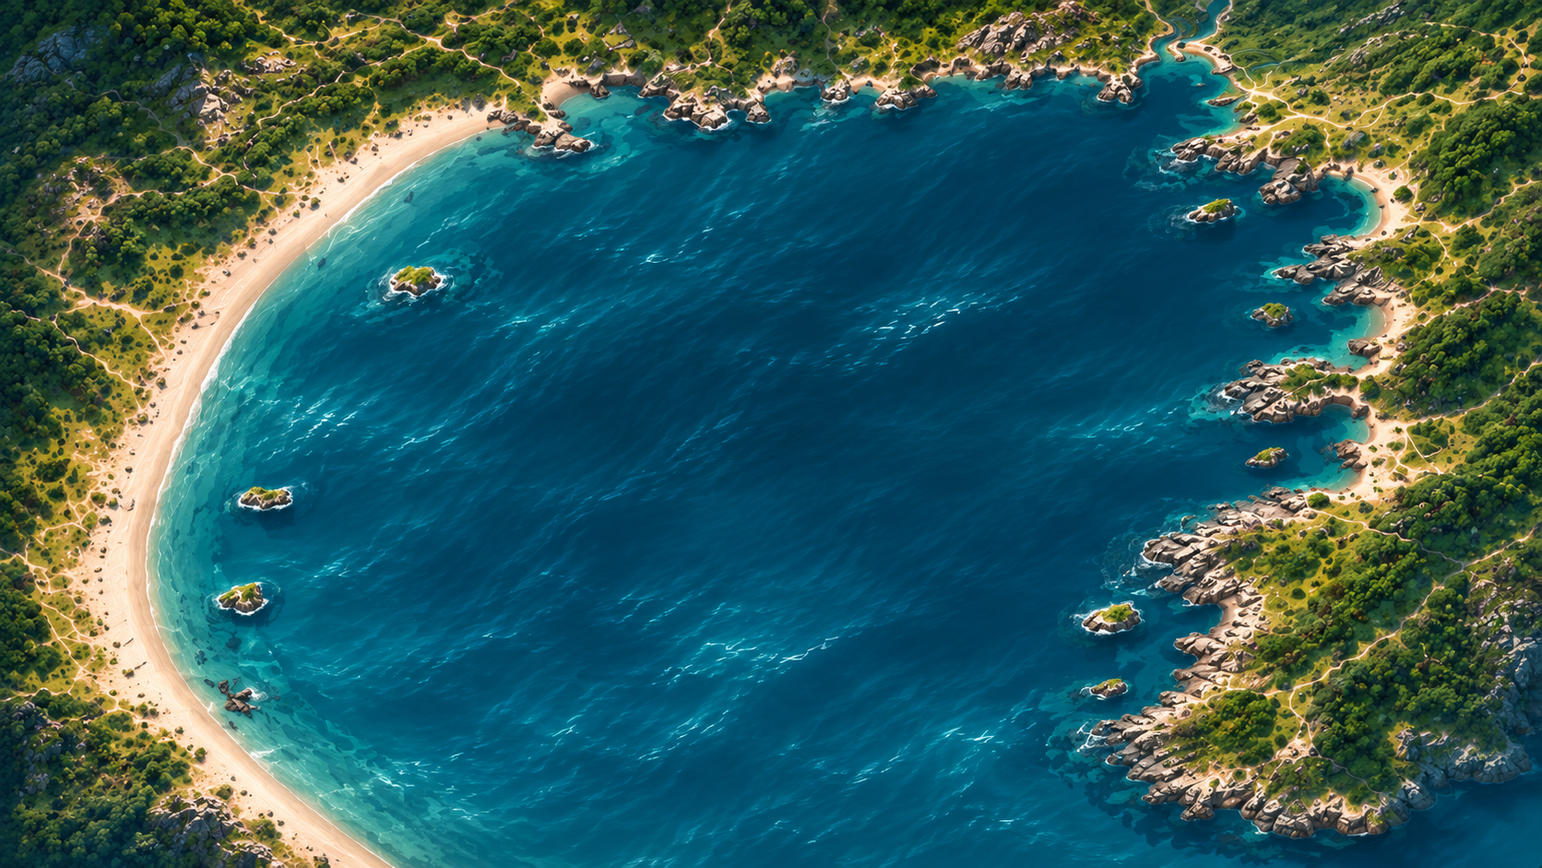
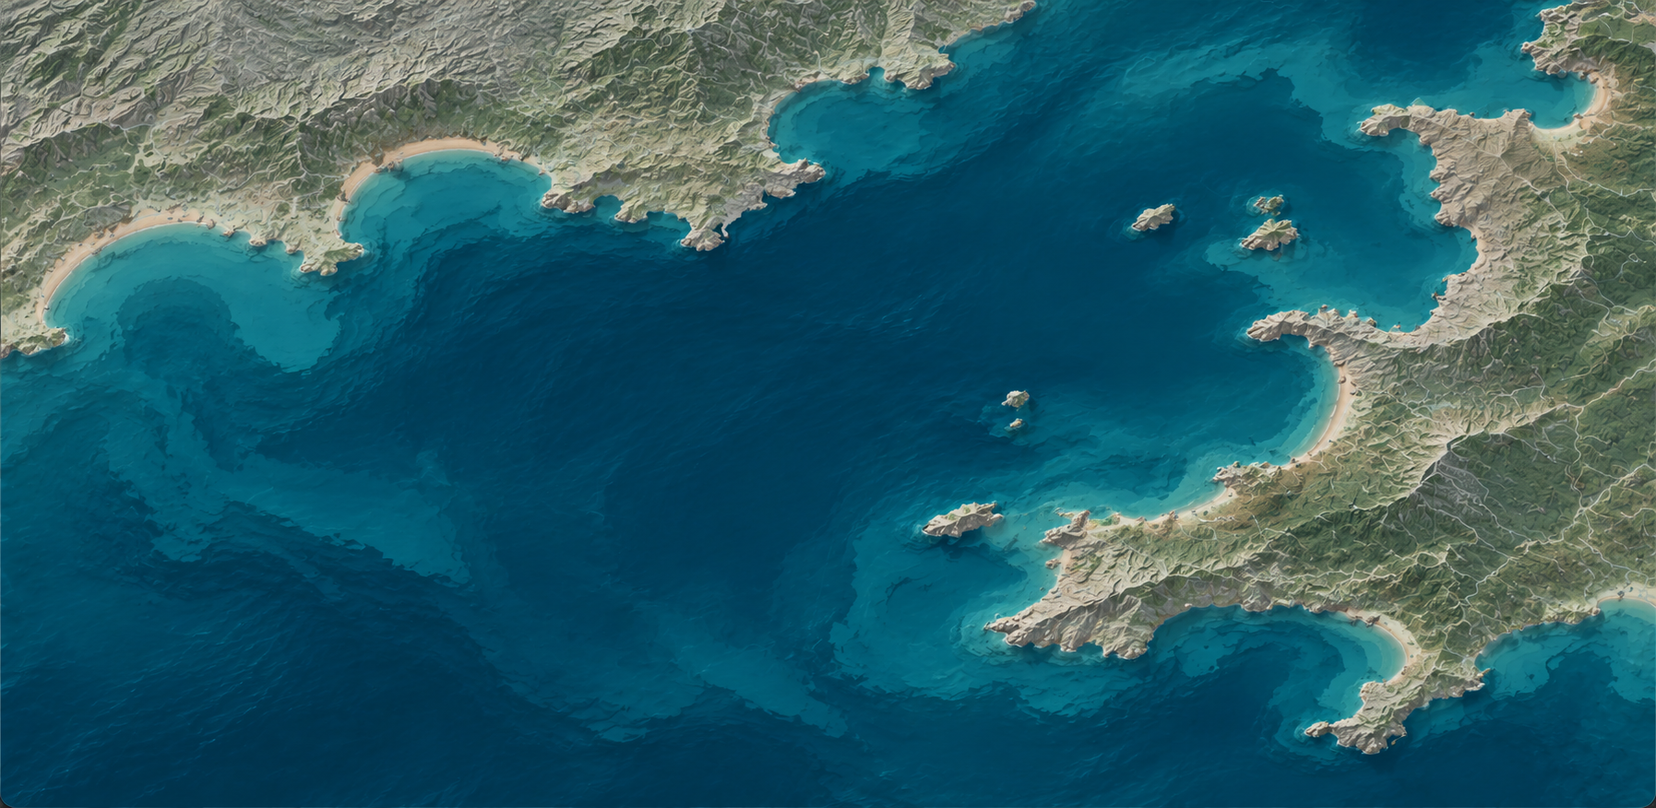
feat: refine simulation setup review and Anchovy Bay background
- Improve typography in duration, climate and review steps
- Preserve the existing button font sizes
- Keep the review centered and show simulation start and end dates
- Show modified species’ biomass limits, biomass bases and fishing
  mortality alongside their defaults, highlighting changed values
- Display saved configuration rules and summarize unchanged defaults
- Move the name character count beside its label and remove queue text
- Stack species names above their codes and life stages in the HCR header
- Left-align initial biomass and initial fishing mortality values
- Combine Modified and reset into a transparent rose-outlined component
- Replace the Anchovy Bay background and remove the unused alternative

diff --git a/apps/frontend/src/features/CreateSimulationModal/flows/northwestern/NorthwesternSimulationFlow.module.css b/apps/frontend/src/features/CreateSimulationModal/flows/northwestern/NorthwesternSimulationFlow.module.css
@@ -3,7 +3,7 @@
   .fields { display: grid; gap: var(--spacing-lg); padding-block: var(--spacing-md); }
   .runSettings { display: grid; gap: var(--spacing-lg); padding-block: var(--spacing-sm); }
   .durationGroup { gap: var(--spacing-md); }
-  .durationGroup > label { font-size: var(--font-size-xl); font-weight: var(--font-weight-semibold); line-height: var(--line-height-tight); }
+  .durationGroup > label { font-size: var(--font-size-lg); font-weight: var(--font-weight-semibold); line-height: var(--line-height-tight); }
   .durationGroup > p { font-size: var(--font-size-lg); }
   .settingsQuestion { margin: 0; color: var(--color-text); font-size: var(--font-size-xl); font-weight: var(--font-weight-bold); line-height: var(--line-height-tight); }
   .climateGroup { gap: 0; }
@@ -55,36 +55,46 @@
   .tacFormula { display: flex; flex-direction: column; justify-content: center; padding: var(--spacing-sm) var(--spacing-md); border: var(--border-width) solid var(--color-hcr-border); border-radius: var(--radius-md); background: var(--color-glass-surface); color: var(--color-text); }
   .tacFormula strong { color: var(--color-primary-ink); font-size: var(--font-size-md); line-height: var(--line-height-body); font-weight: var(--font-weight-semibold); }
   .workspace { flex: 1; display: flex; flex-direction: column; gap: var(--spacing-sm); min-width: 0; min-height: 0; padding: var(--spacing-md); overflow: hidden; border: var(--border-default); border-radius: var(--radius-lg); background: var(--color-hcr-editor); }
-  .editorHeading { display: flex; align-items: center; gap: var(--spacing-md); flex-shrink: 0; min-height: var(--control-height-sm); overflow-x: auto; scrollbar-width: thin; white-space: nowrap; }
-  .editorIdentity { display: flex; align-items: center; gap: var(--spacing-sm); min-width: 0; flex-shrink: 0; }
-  .editorHeading h3 { margin: 0; max-width: 19ch; overflow: hidden; text-overflow: ellipsis; white-space: nowrap; color: var(--color-text); font-size: var(--font-size-sm); line-height: var(--line-height-body); font-weight: var(--font-weight-semibold); outline: none; }
+  .editorHeading { display: grid; grid-template-columns: minmax(0, 1fr) minmax(0, 1.4fr) auto; align-items: center; gap: var(--spacing-md); flex-shrink: 0; min-width: 0; min-height: var(--control-height-sm); }
+  .editorIdentity { display: flex; align-items: center; gap: var(--spacing-sm); min-width: 0; }
+  .editorSpecies { display: grid; gap: var(--spacing-xs); min-width: 0; }
+  .editorHeading h3 { margin: 0; overflow-wrap: anywhere; color: var(--color-text); font-size: var(--font-size-sm); line-height: var(--line-height-body); font-weight: var(--font-weight-semibold); outline: none; }
   .editorActions { display: flex; height: var(--control-height-sm); align-items: stretch; gap: var(--spacing-xs); flex-shrink: 0; margin-inline-start: auto; }
-  .editorActions button { inline-size: var(--control-height-sm); block-size: var(--control-height-sm); min-height: 0; padding: 0; font-size: var(--font-size-xs); }
-  .editorActions .statusTag { display: inline-flex; align-items: center; height: 100%; padding-block: 0; }
-  .referenceValues { display: flex; align-items: center; gap: var(--spacing-md); margin: 0; flex-shrink: 0; white-space: nowrap; }
-  .referenceValues > div { display: flex; align-items: baseline; gap: var(--spacing-sm); }
+  .referenceValues { display: grid; grid-template-columns: max-content minmax(0, max-content); justify-content: start; gap: var(--spacing-xs) var(--spacing-smd); margin: 0; min-width: 0; text-align: start; }
+  .referenceValues > div { display: grid; grid-column: 1 / -1; grid-template-columns: subgrid; align-items: baseline; }
   .referenceValues dt { color: var(--color-text-muted); font-size: var(--font-size-xs); }
-  .referenceValues dd { margin: 0; color: var(--color-text); font-size: var(--font-size-sm); font-variant-numeric: tabular-nums; }
+  .referenceValues dd { white-space: nowrap; margin: 0; color: var(--color-text); font-size: var(--font-size-sm); font-variant-numeric: tabular-nums; }
   .graphPanel { display: flex; flex-direction: column; gap: var(--spacing-sm); position: relative; flex: 1 1 0; min-width: 0; min-height: 0; padding: var(--spacing-xs); border-radius: var(--radius-md); background: var(--color-hcr-plot); }
   .graphPanel > div { height: auto; min-height: 0; flex: 1; }
   .ruleInputs { display: grid; grid-template-columns: repeat(3, minmax(0, 1fr)); gap: var(--spacing-sm); min-width: 0; max-height: 9rem; overflow: auto; padding-top: var(--spacing-sm); border-top: var(--border-default); flex-shrink: 0; scrollbar-width: thin; }
   .statePanel { display: flex; flex: 1; min-height: 0; flex-direction: column; align-items: center; justify-content: center; gap: var(--spacing-md); padding: var(--spacing-lg); border: var(--border-default); border-radius: var(--radius-md); color: var(--color-text-muted); text-align: center; }
-  .finalStep { width: 100%; max-width: 44rem; margin-inline: auto; padding-block: var(--spacing-md); }
+  .finalStep { width: 100%; max-width: 56rem; margin-inline: auto; padding-block: var(--spacing-md); }
   .reviewPanel { overflow: hidden; border: var(--border-default); border-radius: var(--radius-lg); background: var(--color-surface-muted); }
-  .reviewSummary { padding: var(--spacing-lg); }
+  .reviewSummary { padding: var(--spacing-mdl); }
   .reviewCase { display: grid; gap: var(--spacing-xs); padding-bottom: var(--spacing-lg); margin-bottom: var(--spacing-lg); border-bottom: var(--border-default); text-align: center; }
   .reviewCase > span { color: var(--color-text-muted); font-size: var(--font-size-xs); }
-  .reviewCase h3 { margin: 0; color: var(--color-text); font-size: var(--font-size-lg); font-weight: var(--font-weight-medium); line-height: var(--line-height-body); }
+  .reviewCase h3 { margin: 0; color: var(--color-text); font-size: var(--font-size-xl); font-weight: var(--font-weight-semibold); line-height: var(--line-height-body); }
   .review { display: grid; grid-template-columns: repeat(3, minmax(0, 1fr)); gap: var(--spacing-lg); margin: 0; }
   .review > div { display: grid; align-content: start; gap: var(--spacing-sm); min-width: 0; }
   .review dt { color: var(--color-text-muted); font-size: var(--font-size-xs); line-height: var(--line-height-body); }
   .review dd { margin: 0; overflow-wrap: anywhere; font-size: var(--font-size-md); font-weight: var(--font-weight-semibold); line-height: var(--line-height-body); }
   .review dd small { display: block; margin-top: var(--spacing-xs); color: var(--color-text-muted); font-size: var(--font-size-xs); font-weight: var(--font-weight-regular); line-height: var(--line-height-body); }
+  .reviewRules { padding: var(--spacing-md) var(--spacing-mdl); border-top: var(--border-default); }
+  .reviewRules h3 { margin: 0; font-size: var(--font-size-lg); font-weight: var(--font-weight-semibold); }
+  .reviewRuleList { max-height: 15rem; overflow-y: auto; overscroll-behavior: contain; scrollbar-width: thin; margin-top: var(--spacing-md); border: var(--border-default); border-radius: var(--radius-md); }
+  .reviewRule { padding: var(--spacing-md); background: var(--color-surface); }
+  .reviewRule + .reviewRule { border-top: var(--border-default); }
+  .reviewRule header { display: flex; flex-wrap: wrap; align-items: baseline; gap: var(--spacing-sm); margin-bottom: var(--spacing-sm); }
+  .reviewRule h4 { margin: 0; font-size: var(--font-size-lg); font-weight: var(--font-weight-semibold); }
+  .reviewRule header span { color: var(--color-text-muted); }
+  .reviewRule .review { gap: var(--spacing-md); }
+  .reviewRule dd[data-modified] { color: var(--color-primary-ink); }
   .nameSection { display: grid; justify-items: center; gap: var(--spacing-sm); padding: var(--spacing-lg); border-top: var(--border-default); background: var(--color-surface); }
-  .nameSection > p { text-align: center; }
-  .nameField { width: 100%; max-width: 28rem; }
-  .nameField input { font-size: var(--font-size-md); }
-  .nameField [slot="description"] { text-align: right; font-variant-numeric: tabular-nums; }
+  .nameField { display: grid; grid-template-columns: minmax(0, 1fr) auto; align-items: baseline; width: 100%; max-width: 28rem; }
+  .nameField > label { grid-column: 1; grid-row: 1; }
+  .nameField input { grid-column: 1 / -1; grid-row: 2; font-size: var(--font-size-md); }
+  .nameField > :last-child:not(input):not([slot="description"]) { grid-column: 1 / -1; }
+  .nameField [slot="description"] { grid-column: 2; grid-row: 1; text-align: right; font-variant-numeric: tabular-nums; }
   .error { margin: 0; color: var(--color-danger); font-size: var(--font-size-sm); line-height: var(--line-height-body); }
   .fieldset[data-screen="hcr"] { display: flex; flex-direction: column; flex: 1; min-height: 0; }
   .hcrStep:not([hidden]) { display: flex; flex: 1; min-height: 0; }
@@ -101,6 +111,9 @@
   .speciesOption { display: flex; align-items: center; height: 2.75rem; min-width: 0; }
   .ruleStatus { display: grid; place-items: center; flex-shrink: 0; width: var(--icon-size-sm); height: var(--icon-size-sm); border-radius: var(--radius-pill); color: var(--color-danger); font-size: var(--font-size-xs); }
   @media (max-width: 64rem) {
+    .editorHeading { grid-template-columns: minmax(0, 1fr) auto; }
+    .editorActions { grid-column: 2; grid-row: 1; }
+    .referenceValues { grid-column: 1 / -1; }
     .hcrContent { --hcr-sidebar-width: 18rem; }
     .hcrOverview { grid-template-columns: minmax(0, 1fr); gap: var(--spacing-sm); }
     .tacAside { border-inline-start: 0; padding-inline-start: 0; }

diff --git a/apps/frontend/src/features/CreateSimulationModal/flows/northwestern/ReviewStep.tsx b/apps/frontend/src/features/CreateSimulationModal/flows/northwestern/ReviewStep.tsx
@@ -2,23 +2,52 @@ import { getClimateScenarioContent } from "../../../../../mock-data/content/clim
 import Input from "../../../../components/ui/Input/Input";
 import { Controller, useFormContext, useWatch } from "react-hook-form";
 import type { ExperimentOptions } from "../../../../network/services/scenarios/scenarioSchemas";
-import type { HcrConfiguration } from "../../../../network/services/hcrConfigurations/hcrConfigurationSchemas";
+import type { HcrConfiguration, HcrRulePayload } from "../../../../network/services/hcrConfigurations/hcrConfigurationSchemas";
 import { getRunDurations, type SimulationFormValues, type HcrMode } from "./form";
 import { getInitialRule, sameHcrValues } from "./initialRules";
 import { speciesEntryKey } from "../../../../network/services/hcrConfigurations/hcrConfigurationSchemas";
 import styles from "./NorthwesternSimulationFlow.module.css";
+
+const ruleFields = [
+  { key: "biomass_limit_kg", label: "Biomass limit", scale: 1000, unit: "tonnes" },
+  { key: "biomass_base_kg", label: "Biomass base", scale: 1000, unit: "tonnes" },
+  { key: "f_max", label: "Fishing mortality", scale: 1, unit: "/ year" },
+] as const;
+const formatValue = (value: number | undefined, scale: number) => value !== undefined && Number.isFinite(value)
+  ? (value / scale).toLocaleString("en", { maximumSignificantDigits: 8 }) : "Unavailable";
+const formatDate = (value: string | null | undefined) => value
+  ? new Date(value).toLocaleDateString("en-GB", { day: "numeric", month: "short", year: "numeric", timeZone: "UTC" }) : "Unavailable";
+
+function RuleReview({ rule, options }: { rule: HcrRulePayload; options: ExperimentOptions }) {
+  const key = speciesEntryKey(rule.species_code, rule.life_stage ?? "");
+  const species = options.species.find(entry => speciesEntryKey(entry.species_code, entry.life_stage) === key);
+  const initial = getInitialRule(options, key);
+  return <article className={styles.reviewRule}>
+    <header><h4>{species?.species_name ?? rule.species_code}</h4><span>{rule.species_code}{rule.life_stage ? ` - ${rule.life_stage}` : ""}</span></header>
+    <dl className={styles.review}>
+      {ruleFields.map(({ key: field, label, scale, unit }) => {
+        const modified = Boolean(initial && !sameHcrValues({ ...initial, [field]: rule[field] }, initial));
+        return <div key={field}><dt>{label}</dt><dd data-modified={modified || undefined}>
+          {formatValue(rule[field], scale)} {unit}
+          <small>Default: {formatValue(initial?.[field], scale)}{Number.isFinite(initial?.[field]) ? ` ${unit}` : ""}</small>
+        </dd></div>;
+      })}
+    </dl>
+  </article>;
+}
 
 type Props = { caseLabel: string; options: ExperimentOptions; mode: HcrMode; configuration?: HcrConfiguration };
 export default function ReviewStep({ caseLabel, options, mode, configuration }: Props) {
   const { control } = useFormContext<SimulationFormValues>();
   const values = useWatch({ control });
   const duration = getRunDurations(options).find(item => item.end && values.end_date_time && new Date(item.end).getTime() === new Date(values.end_date_time).getTime());
-  const ruleCount = mode === "saved" ? configuration?.rules.length ?? 0 : values.harvest_control_rules?.length ?? 0;
-  const changedCount = values.harvest_control_rules?.filter(rule => rule && !sameHcrValues({
-    species_code: rule.species_code ?? "", life_stage: rule.life_stage,
-    biomass_limit_kg: rule.biomass_limit_kg ?? NaN, biomass_base_kg: rule.biomass_base_kg ?? NaN, f_max: rule.f_max ?? NaN,
-  }, getInitialRule(options, speciesEntryKey(rule.species_code ?? "", rule.life_stage ?? "")))).length ?? 0;
-  const endDate = values.end_date_time ? new Date(values.end_date_time).toLocaleDateString("en-GB", { day: "numeric", month: "short", year: "numeric", timeZone: "UTC" }) : "Unavailable";
+  const formRules = useWatch({ control, name: "harvest_control_rules" }) ?? [];
+  const rules = mode === "saved" ? configuration?.rules ?? [] : mode === "custom" ? formRules : [];
+  const changedRules = rules.filter(rule => !sameHcrValues(rule,
+    getInitialRule(options, speciesEntryKey(rule.species_code, rule.life_stage ?? ""))));
+  const ruleCount = rules.length;
+  const changedCount = changedRules.length;
+  const reviewedRules = mode === "saved" ? rules : changedRules;
   return <div className={styles.finalStep}>
     <div className={styles.reviewPanel}>
       <section className={styles.reviewSummary} aria-label="Your selections">
@@ -27,18 +56,26 @@ export default function ReviewStep({ caseLabel, options, mode, configuration }: 
           <h3>{caseLabel}</h3>
         </header>
         <dl className={styles.review}>
-          <div><dt>Run duration</dt><dd>{duration ? `${duration.years} years` : "Unavailable"}<small>Until {endDate} (UTC)</small></dd></div>
+          <div><dt>Run duration</dt><dd>{duration ? `${duration.years} years` : "Unavailable"}<small>{formatDate(options.start_date_time)} – {formatDate(values.end_date_time)} (UTC)</small></dd></div>
           <div><dt>Climate scenario</dt><dd>{values.climate_scenario ? getClimateScenarioContent(values.climate_scenario).title : options.climate_scenarios.length === 0 ? "No options available" : "Not selected"}</dd></div>
           <div><dt>Harvest control rules</dt><dd>{mode === "none" ? "None" : `${ruleCount} ${ruleCount === 1 ? "rule" : "rules"}`}<small>{mode === "saved" ? configuration?.name : mode === "custom" ? `${changedCount} modified · ${ruleCount - changedCount} default` : "Without configuration"}</small></dd></div>
         </dl>
       </section>
+      {mode !== "none" ? <section className={styles.reviewRules} aria-label="Harvest control details">
+        <h3>{mode === "saved" ? "Saved configuration rules" : `Modified species — ${changedCount}`}</h3>
+        {reviewedRules.length > 0 ? <>
+          <p className={styles.note}>Review the values below against the defaults. Changed values are highlighted.</p>
+          <div className={styles.reviewRuleList} role="region" aria-label="Species rule values" tabIndex={0}>
+            {reviewedRules.map(rule => <RuleReview key={speciesEntryKey(rule.species_code, rule.life_stage ?? "")} rule={rule} options={options} />)}
+          </div>
+        </> : <p className={styles.note}>{mode === "custom" ? "All species use their default harvest control rules." : "This saved configuration contains no harvest control rules."}</p>}
+      </section> : null}
       <section className={styles.nameSection} aria-label="Name your simulation">
         <Controller control={control} name="name" render={({ field }) =>
           <Input className={styles.nameField} label="Simulation name *" value={field.value} onChange={field.onChange} onBlur={field.onBlur}
             name={field.name} isRequired maxLength={24}
-            placeholder="Give your simulation a name" description={`${field.value.length} / 24 characters`} />
+            placeholder="Give your simulation a name" description={`${field.value.length} / 24`} />
         } />
-        <p className={styles.note}>Your simulation will be added to the run queue.</p>
       </section>
     </div>
   </div>;

diff --git a/apps/frontend/src/features/CreateSimulationModal/flows/northwestern/HcrRulesStep.tsx b/apps/frontend/src/features/CreateSimulationModal/flows/northwestern/HcrRulesStep.tsx
@@ -9,7 +9,7 @@ import Button from "../../../../components/ui/Button/Button";
 import ComboBox from "../../../../components/ui/ComboBox/ComboBox";
 import Select from "../../../../components/ui/Select/Select";
 import Text from "../../../../components/ui/Text/Text";
-import Tag from "../../../../components/ui/Tag/Tag";
+import HcrRuleStatus from "./HcrRuleStatus";
 import type { ExperimentOptions } from "../../../../network/services/scenarios/scenarioSchemas";
 import type { HcrConfiguration, HcrRulePayload } from "../../../../network/services/hcrConfigurations/hcrConfigurationSchemas";
 import { hcrRulePayloadSchema, speciesEntryKey } from "../../../../network/services/hcrConfigurations/hcrConfigurationSchemas";
@@ -159,14 +159,15 @@ export default function HcrRulesStep({ headingRef, options, mode, onModeChange, 
     </div> : null}
     {mode === "custom" || (mode === "saved" && configuration) ? <section className={styles.workspace} aria-label="Harvest control rule editor">
       <header className={styles.editorHeading}>
-        <div className={styles.editorIdentity}><LuFish aria-hidden="true" /><h3 ref={editorTitle} tabIndex={-1} title={activeEntry?.label}>{reference?.species_name ?? activeEntry?.label ?? "Select a species"}</h3><span className={styles.speciesMeta}>{reference?.species_code}{reference?.life_stage ? ` · ${reference.life_stage}` : ""}</span></div>
+        <div className={styles.editorIdentity}><LuFish aria-hidden="true" /><div className={styles.editorSpecies}><h3 ref={editorTitle} tabIndex={-1}>{reference?.species_name ?? activeEntry?.label ?? "Select a species"}</h3><span className={styles.speciesMeta}>{reference?.species_code}{reference?.life_stage ? ` - ${reference.life_stage}` : ""}</span></div></div>
         {reference ? <dl className={styles.referenceValues}>
           <div><dt>Initial biomass</dt><dd>{reference.initial_biomass_kg === null ? "Unavailable" : `${formatReference(reference.initial_biomass_kg / 1000)} t`}</dd></div>
-          <div><dt title="Initial fishing mortality">Initial F</dt><dd>{reference.initial_fishing_mortality === null ? "Unavailable" : `${formatReference(reference.initial_fishing_mortality)} / year`}</dd></div>
+          <div><dt>Initial fishing mortality</dt><dd>{reference.initial_fishing_mortality === null ? "Unavailable" : `${formatReference(reference.initial_fishing_mortality)} / year`}</dd></div>
         </dl> : null}
         <div className={styles.editorActions}>
-          {mode === "custom" ? <Tag className={styles.statusTag} tone={activeChanged ? "primary" : "neutral"}>{activeChanged ? "Modified" : "Default values"}</Tag> : <Tag className={styles.statusTag}>Saved values</Tag>}
-          {mode === "custom" ? <Button size="sm" variant="ghost" iconOnly aria-label={`Restore defaults for ${activeEntry?.label ?? "selected species"}`} isDisabled={!activeChanged} onPress={() => { if (activeKey) resetRule(activeKey); }}><FiX aria-hidden="true" /></Button> : null}
+          <HcrRuleStatus status={mode === "saved" ? "saved" : activeChanged ? "modified" : "default"}
+            speciesLabel={activeEntry?.label ?? "selected species"}
+            onReset={() => { if (activeKey) resetRule(activeKey); }} />
         </div>
       </header>
       <div className={styles.graphPanel}>

diff --git a/apps/frontend/src/features/CreateSimulationModal/flows/ScenarioSimulationFlow.tsx b/apps/frontend/src/features/CreateSimulationModal/flows/ScenarioSimulationFlow.tsx
@@ -152,7 +152,7 @@ export default function ScenarioSimulationFlow({ caseLabel, options: latestOptio
     onComplete(experiment);
   });
   return <FormProvider {...form}>
-    <form className={styles.root} noValidate onSubmit={event => {
+    <form className={styles.root} data-screen={screen} noValidate onSubmit={event => {
       if (blockedReason) { event.preventDefault(); return; }
       if (screen === "review") { void create(event); }
       else { event.preventDefault(); void next(); }
@@ -189,7 +189,7 @@ export default function ScenarioSimulationFlow({ caseLabel, options: latestOptio
             onPress={() => { changeMode("none"); void goToScreen("settings"); }}>Continue without configuration</Button> : null}
           <TooltipTrigger delay={250} isDisabled={!blockedReason || transitioning}>
             <DisabledTooltipTarget label={actionLabel} isDisabled={actionDisabled}>{actionButton}</DisabledTooltipTarget>
-            <Tooltip>{blockedReason}</Tooltip>
+            <Tooltip className={screen === "hcr" ? undefined : styles.laterStepTooltip}>{blockedReason}</Tooltip>
           </TooltipTrigger>
         </div>
       </footer>

diff --git a/apps/frontend/src/features/CreateSimulationModal/CreateSimulationModal.module.css b/apps/frontend/src/features/CreateSimulationModal/CreateSimulationModal.module.css
@@ -1,6 +1,15 @@
 @layer components {
   .modalBody { display: flex; flex: 1; min-width: 0; min-height: 0; overflow: hidden; padding: 0; scrollbar-gutter: auto; }
   .root { display: flex; flex: 1; flex-direction: column; min-width: 0; min-height: 0; width: 100%; color: var(--color-text); }
+  /* Later steps use readable body text without changing the HCR editor. */
+  .formBody:not([data-screen="hcr"]), .scenarioBackground, .laterStepTooltip {
+    --font-size-xs: var(--font-size-lg);
+    --font-size-sm: var(--font-size-lg);
+    --font-size-md: var(--font-size-lg);
+    font-size: var(--font-size-lg);
+    line-height: var(--line-height-body);
+  }
+  .root:not([data-screen="hcr"]) .heading h2 { font-weight: var(--font-weight-semibold); }
   .formBody { flex: 1; min-width: 0; min-height: 0; overflow: auto; overscroll-behavior: contain; padding: var(--spacing-mdl); scrollbar-width: thin; scrollbar-gutter: stable both-edges; }
   .formBody[data-screen="review"] .headingRow { text-align: center; }
   .stepContent { min-width: 0; }

diff --git a/apps/frontend/src/features/CreateSimulationModal/flows/northwestern/HcrRuleStatus.module.css b/apps/frontend/src/features/CreateSimulationModal/flows/northwestern/HcrRuleStatus.module.css
@@ -1,0 +1,26 @@
+@layer components {
+  .status {
+    display: inline-flex;
+    align-items: center;
+    justify-content: center;
+    gap: var(--spacing-sm);
+    min-height: var(--control-height-sm);
+    padding: var(--spacing-xs) var(--spacing-smd);
+    border: var(--border-width) solid var(--color-hcr-border);
+    border-radius: var(--radius-sm);
+    background: transparent;
+    color: var(--color-text-muted);
+    font-size: var(--font-size-xs);
+    font-weight: var(--font-weight-medium);
+    line-height: var(--line-height-body);
+    white-space: nowrap;
+  }
+  .status[data-status="modified"],
+  .status[data-status="modified"]:is(:hover, [data-hovered], [data-pressed]) {
+    border-color: var(--color-primary-ink);
+    color: var(--color-primary-ink);
+    background: transparent;
+    box-shadow: none;
+  }
+  .status svg { inline-size: var(--icon-size-sm); block-size: var(--icon-size-sm); }
+}

diff --git a/apps/frontend/src/features/CreateSimulationModal/flows/northwestern/HcrRuleStatus.tsx b/apps/frontend/src/features/CreateSimulationModal/flows/northwestern/HcrRuleStatus.tsx
@@ -1,0 +1,20 @@
+import { FiX } from "react-icons/fi";
+import Button from "../../../../components/ui/Button/Button";
+import styles from "./HcrRuleStatus.module.css";
+
+type Props = {
+  status: "modified" | "default" | "saved";
+  speciesLabel: string;
+  onReset: () => void;
+};
+
+export default function HcrRuleStatus({ status, speciesLabel, onReset }: Props) {
+  if (status !== "modified") return <span className={styles.status} data-status={status}>
+    {status === "saved" ? "Saved values" : "Default values"}
+  </span>;
+
+  return <Button className={styles.status} data-status={status} variant="ghost" size="sm"
+    aria-label={`Restore defaults for ${speciesLabel}`} onPress={onReset}>
+    Modified <FiX aria-hidden="true" />
+  </Button>;
+}
